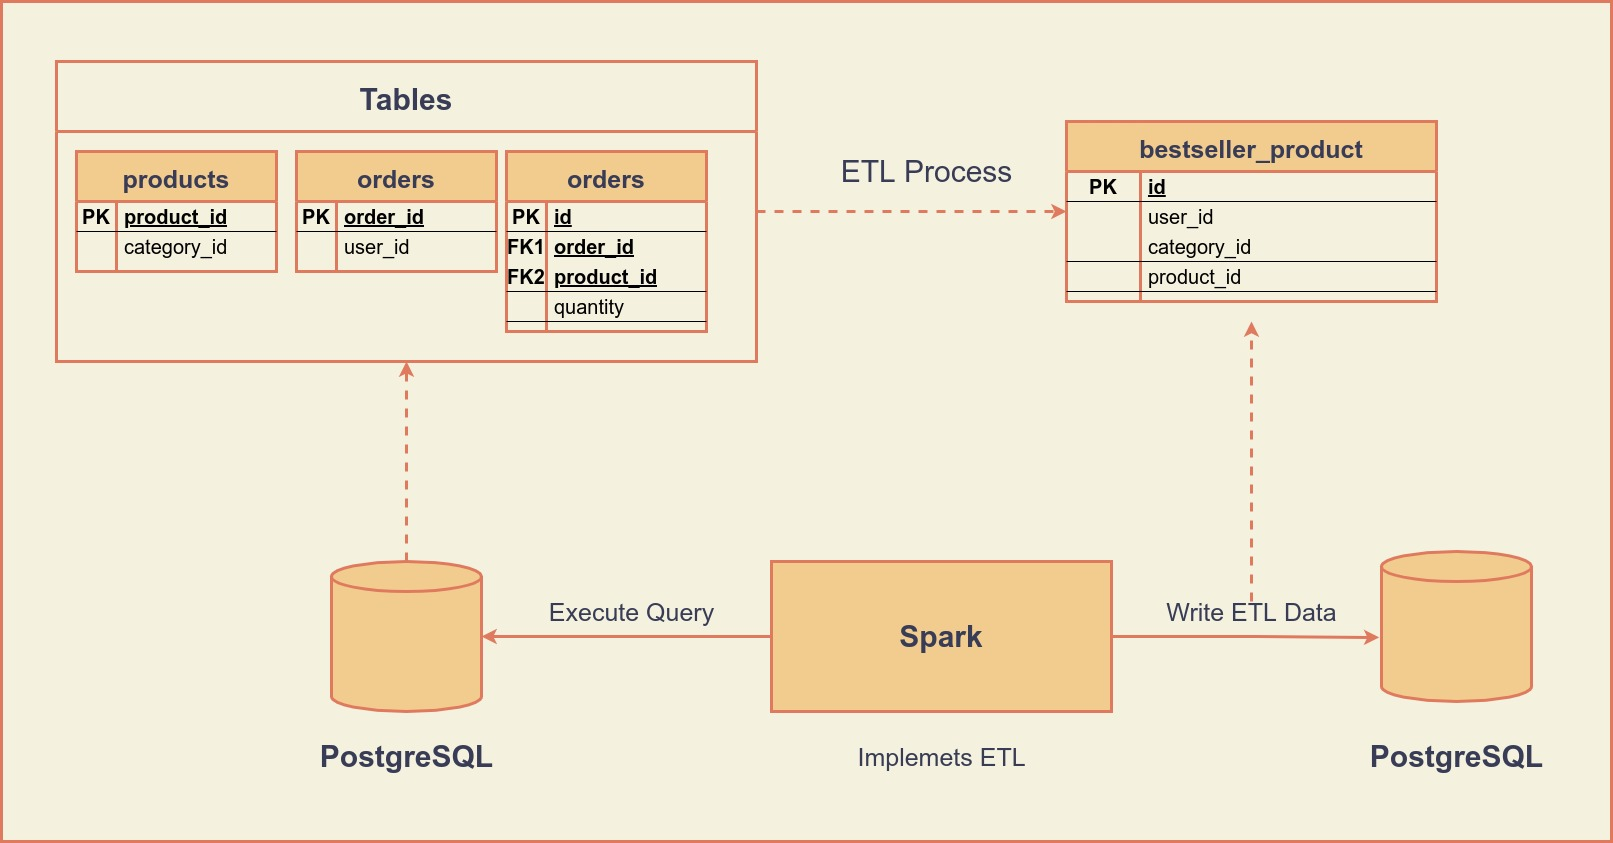
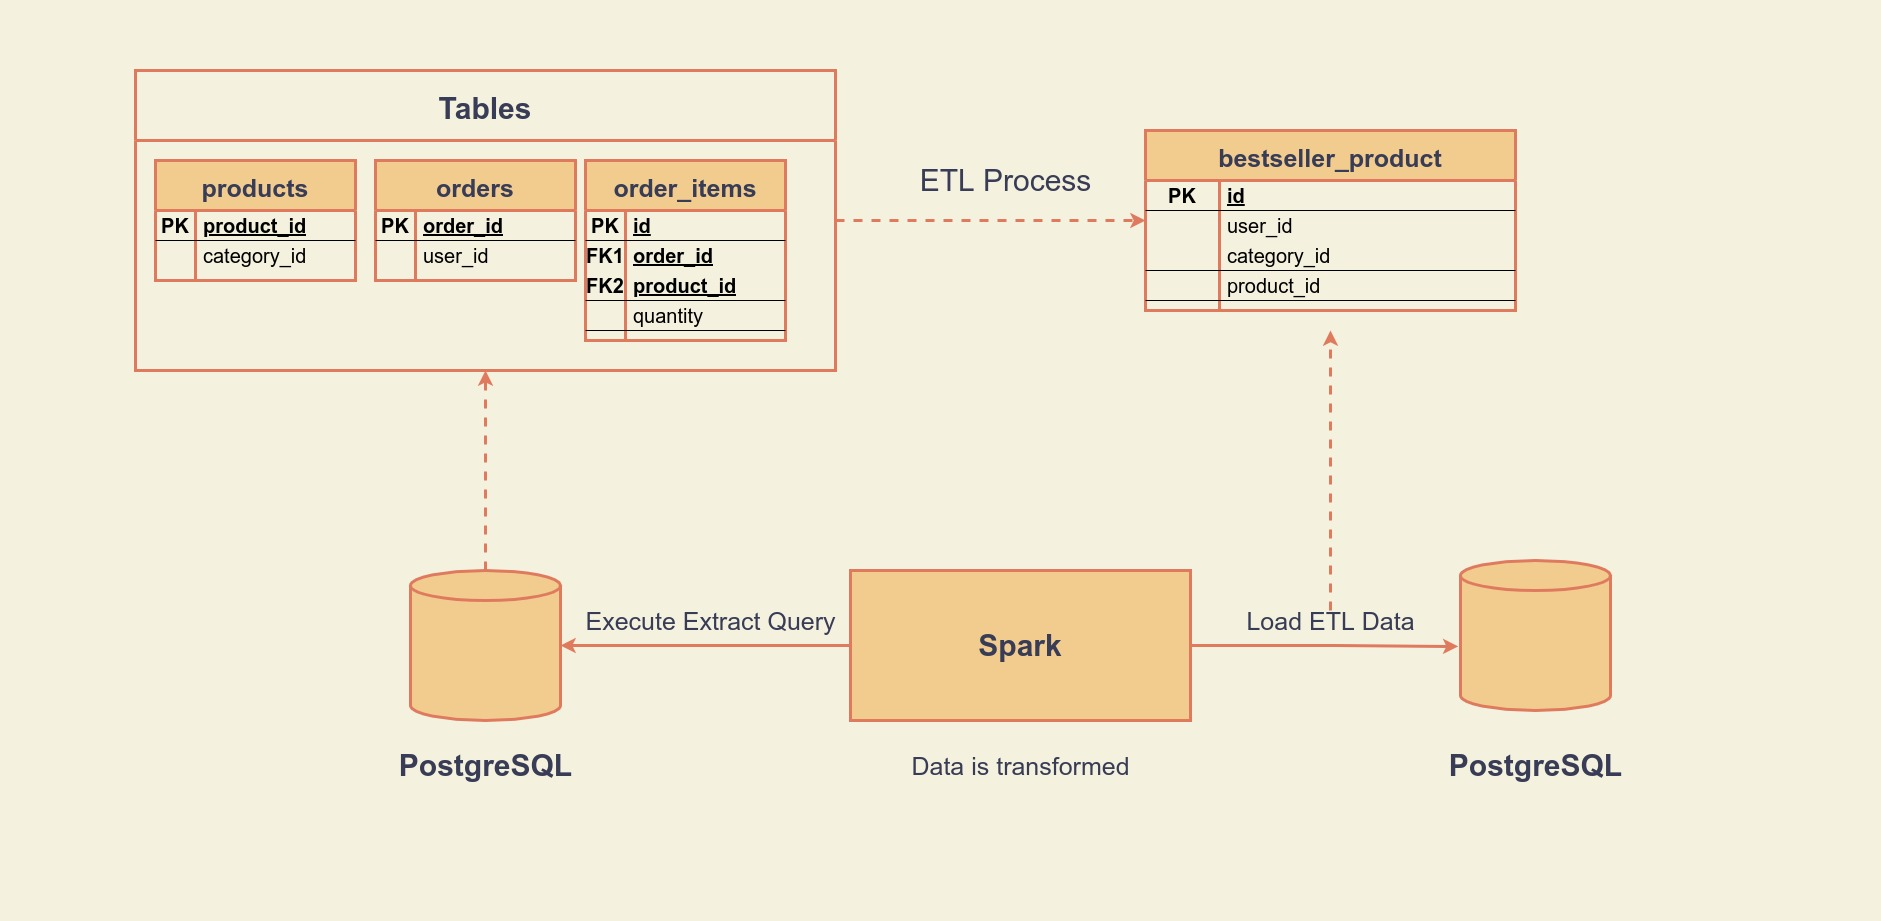
project readmes update

diff --git a/README.md b/README.md
@@ -1,10 +1,22 @@
 ## spring-kafka-etl-api
 
-This project occurs four application. This project read ndjson file that named `product-views.json` by line by and write the line to Kafka. And then, reads the line, that written to Kafka, from Kafka then write to PostgreSQL.
+This project occurs four application. The project read ndjson file that named `product-views.json` by line by and write the line to Kafka. And then, reads the line, that written to Kafka, from Kafka then write to PostgreSQL.
 
-Plus, implements ETL process to `products`, `orders`, `order_items` tables that take place in PostgreSQL.
+Plus, implements ETL process to `products`, `orders` and `order_items` tables that take place in PostgreSQL.
 
 Also, with API return ten viewed products given userId and recommend products given userId.
+
+
+## Modules and Modules' description
+
+Module | Use Technology | Description
+------ | -------------- | -----------
+[view-producer](view-producer) | Java Spring | Reads product-views.json file by line by and transform the line to Event class and writes to Kafka.
+[stream-reader](stream-reader) | Java Spring | Reads Event from Kafka and transform the event to BrowsingHistory class and the class write to PostgreSQL Database.
+[etl-process](etl-process) | PySpark | Implements ETL to orders, products and order_items tables. These tables joins bestseller_product table.
+[api](api) | Java Spring | Returns response for specific requests.
+
+> Click the module name to read its own README
 
 ## Diagrams
 
@@ -50,17 +62,6 @@ Also, with API return ten viewed products given userId and recommend products gi
 ![api-diagram](api/images/diagram.jpg)
 
 </details>
-
-## Modules and Modules' description
-
-Module | Use Technology | Description
------- | -------------- | -----------
-[view-producer](view-producer) | Java Spring | Reads product-views.json file by line by and transform the line to Event class and writes to Kafka.
-[stream-reader](stream-reader) | Java Spring | Reads Event from Kafka and transform the event to BrowsingHistory class and the class write to PostgreSQL Database.
-[etl-process](etl-process) | PySpark | Implements ETL to orders, products and order_items tables. These tables joins bestseller_product table.
-[api](api) | Java Spring | Returns response for specific requests.
-
-> Click the module name to read its own README
 
 ## Requirements Check
 

diff --git a/etl-process/README.md b/etl-process/README.md
@@ -1,7 +1,5 @@
 ## ETL-Process
 
-export PYTHONPATH=$(pwd)
-
 ETL-Process, implements ETL to `orders`, `products` and `order_items` tables. These tables joins `bestseller_product` table.
 
 Code | README | Unittest | Containerization
@@ -12,6 +10,44 @@ Code | README | Unittest | Containerization
 ## Diagram
 
 ![diagram](images/etl_process.jpg)
+
+### Extract query of ETL
+
+```sql
+SELECT
+	oi.id,
+	o.user_id,
+	p.category_id,
+	p.product_id
+FROM
+	order_items oi,
+	orders o,
+	products p
+WHERE
+	oi.order_id = o.order_id
+	AND oi.product_id = p.product_id
+```
+
+### Transformed data
+
+before transformation:
+
+
+column | value
+------ | -----
+id |  111
+user-id | user-10
+category-id | category-50
+product-id | product-45
+
+after transformation:
+
+column | value
+------ | -----
+id |  111
+user-id | 10
+category-id | 50
+product-id | 45
 
 ## Dependencies
 

diff --git a/stream-reader/README.md b/stream-reader/README.md
@@ -4,7 +4,7 @@ Stream-Reader reads `Event` from Kafka and transform the event to `BrowsingHisto
 
 Unnecessary fields not selected in the event for generate `BrowsingHistory`.
 
-`BrowsingHistory` has `category_id` because if `BrowsingHistory` has not `category_id`, to find most three category joins `browsing_history` and `products` table. So that's more costly to find most tree category than this solution . 
+`BrowsingHistory` has `category_id` because if `BrowsingHistory` has not `category_id`, to find most three category joins `browsing_history` and `products` table. So that's more costly to find most tree category than this solution. 
 
 Code | README | Unittest | Containerization
 ---- | ------ | -------- | ----------------
